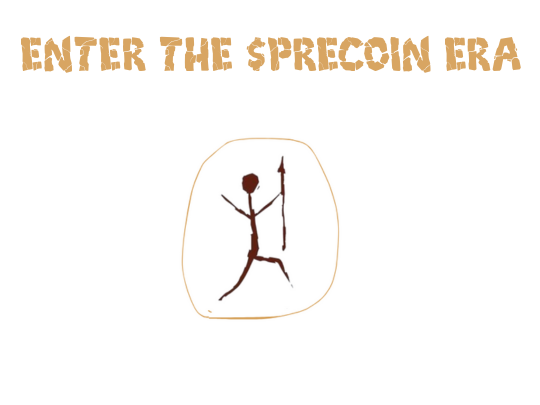
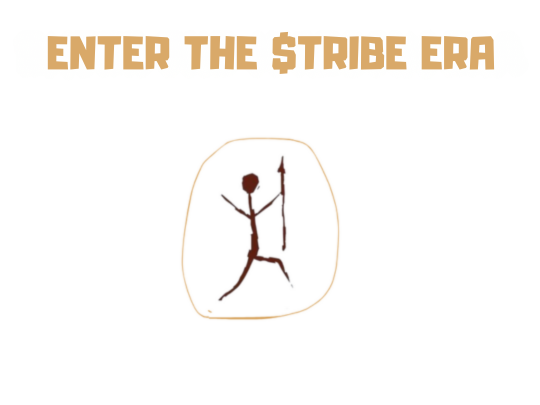
sdf

Changed region(s): [[0.0296, 0.0593, 0.9778, 0.1778]]

diff --git a/index.html b/index.html
@@ -5,7 +5,7 @@
 <meta charset="utf8">
 <meta name="viewport" content="width=device-width, initial-scale=1.0">
 
-<title>precoin.</title>
+<title>Tribe Club Coin.</title>
 <link rel="shortcut icon" href="media/f.gif">
 
     <link rel="stylesheet" href="unpkg.com/98.css%400.1.21/dist/98.css">
@@ -68,7 +68,7 @@ color: #000000;
 </div>
 </div>
 <div class="window-body"><br>
-<p><b>The Pre-Coin Era was not about profit.
+<p><b>The Tribe Club Coin was not about profit.
 It was about survival, trust, and the raw exchange of what mattered most.
 No tickers, no numbers, only agreements written in memory.
 
@@ -89,7 +89,7 @@ No tickers, no numbers, only agreements written in memory.
 </div>
 <div class="window-body"><br>
 <p><b>Before charts. Before wallets. Before price.
-There was a silence — the Pre-Coin Era.
+There was a silence — the Tribe Club Coin.
 A time when value existed without a ledger to hold it.</b></p><br>
 </div>
 </div>
@@ -106,7 +106,7 @@ A time when value existed without a ledger to hold it.</b></p><br>
 </div>
 </div>
 <div class="window-body"><br>
-<p><center><div title="in the sea, in the sea..."><a href="https://launchmynft.io/"><img src="a.png" style="width: 450px; border:dotted; border-width: 1px;"></a></div></center><br><br>
+<p><center><div title="in the sea, in the sea..."><a href="x.com"><img src="a.png" style="width: 450px; border:dotted; border-width: 1px;"></a></div></center><br><br>
 </div>
 </div>
 </div>
